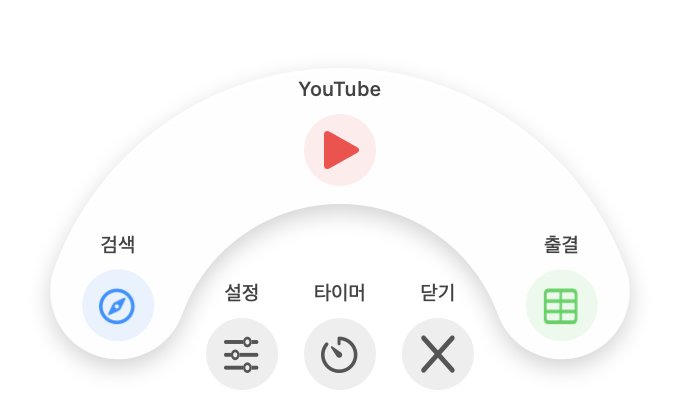
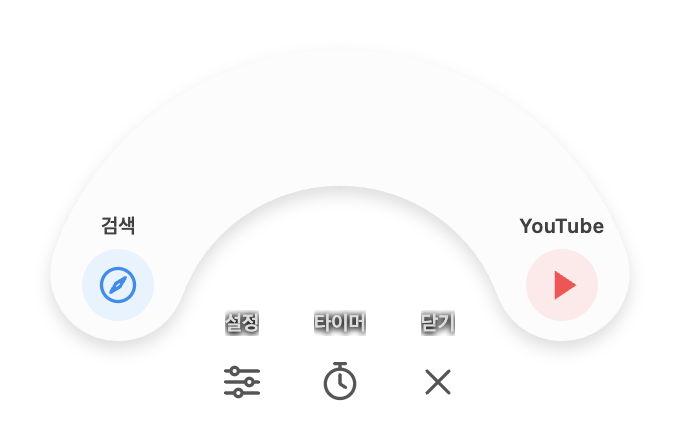
docs: 팔레트 미리보기 교체 및 윈도우 업데이트 안내 추가

diff --git a/README.md b/README.md
@@ -25,7 +25,7 @@
 모찌는 바탕화면 위를 돌아다니는 데스크톱 캐릭터 앱입니다. 클릭하면 곡선형 팔레트가 펼쳐지고, 등록한 사이트나 파일을 바로 열 수 있어요. 집중할 때는 시간을 정해 함께 작업하고, 한동안 건드리지 않으면 모찌도 잠깐 쉬어갑니다.
 
 <div align="center">
-<img src="docs/images/palette-preview.png" width="600" alt="검색, YouTube, 출결 바로가기가 펼쳐진 곡선형 팔레트 예시" />
+<img src="docs/images/palette-preview.png" width="600" alt="검색과 YouTube 바로가기가 펼쳐진 곡선형 팔레트 예시" />
 <p><sub>바로가기 이름과 색상은 자유롭게 바꿀 수 있습니다.</sub></p>
 </div>
 
@@ -59,6 +59,8 @@
 3. 폴더 안의 `Mochi.exe`를 실행합니다.
 
 별도 설치 과정 없이 실행하는 포터블 앱입니다. **EXE만 따로 옮기지 말고 폴더 전체를 보관**하세요. 서명되지 않은 앱이라 Windows에서 경고가 표시될 수 있습니다. 트레이 아이콘이 안 보이면 작업표시줄의 숨겨진 아이콘 목록을 확인하세요.
+
+**새 버전으로 업데이트:** 다운로드 버튼에서 최신 ZIP을 받은 뒤, 트레이 메뉴에서 기존 모찌를 **종료**하세요. 새 ZIP을 별도 폴더에 전부 풀고 `Mochi.exe`를 실행하면 됩니다. 자동 업데이트 방식은 아니며, 기존 바로가기 설정은 그대로 유지됩니다.
 
 > 배포 파일은 [GitHub Releases](https://github.com/chani337/desktop_mochi/releases)에 올라옵니다. 다운로드 버튼이 아직 열리지 않으면 릴리스 업로드 상태를 확인해 주세요.
 
